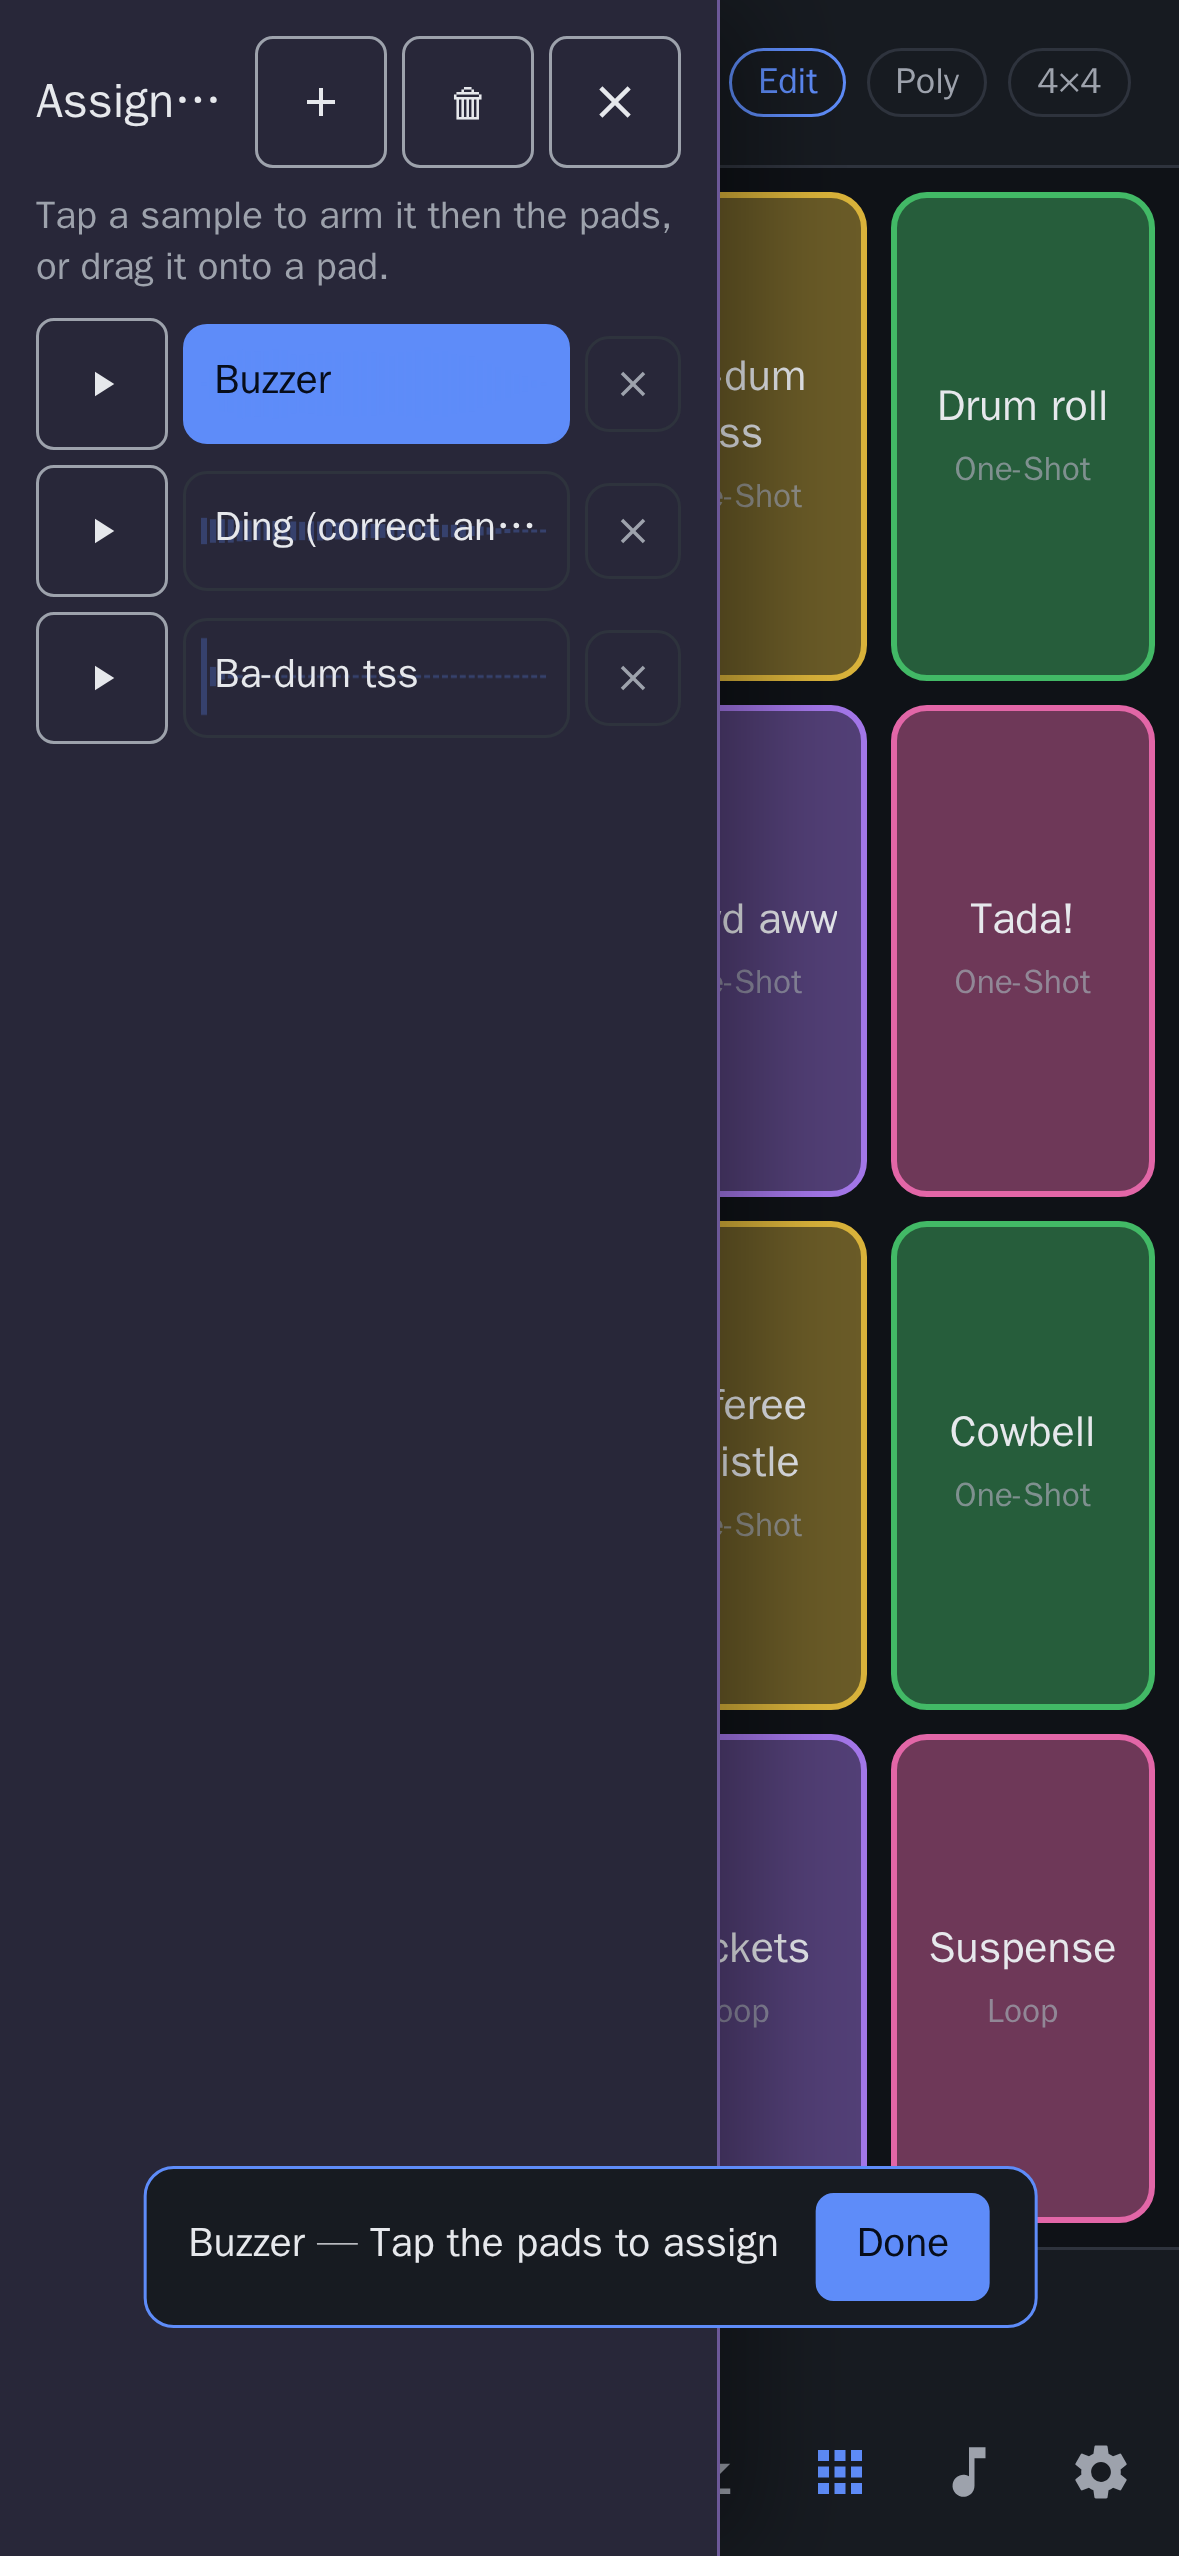
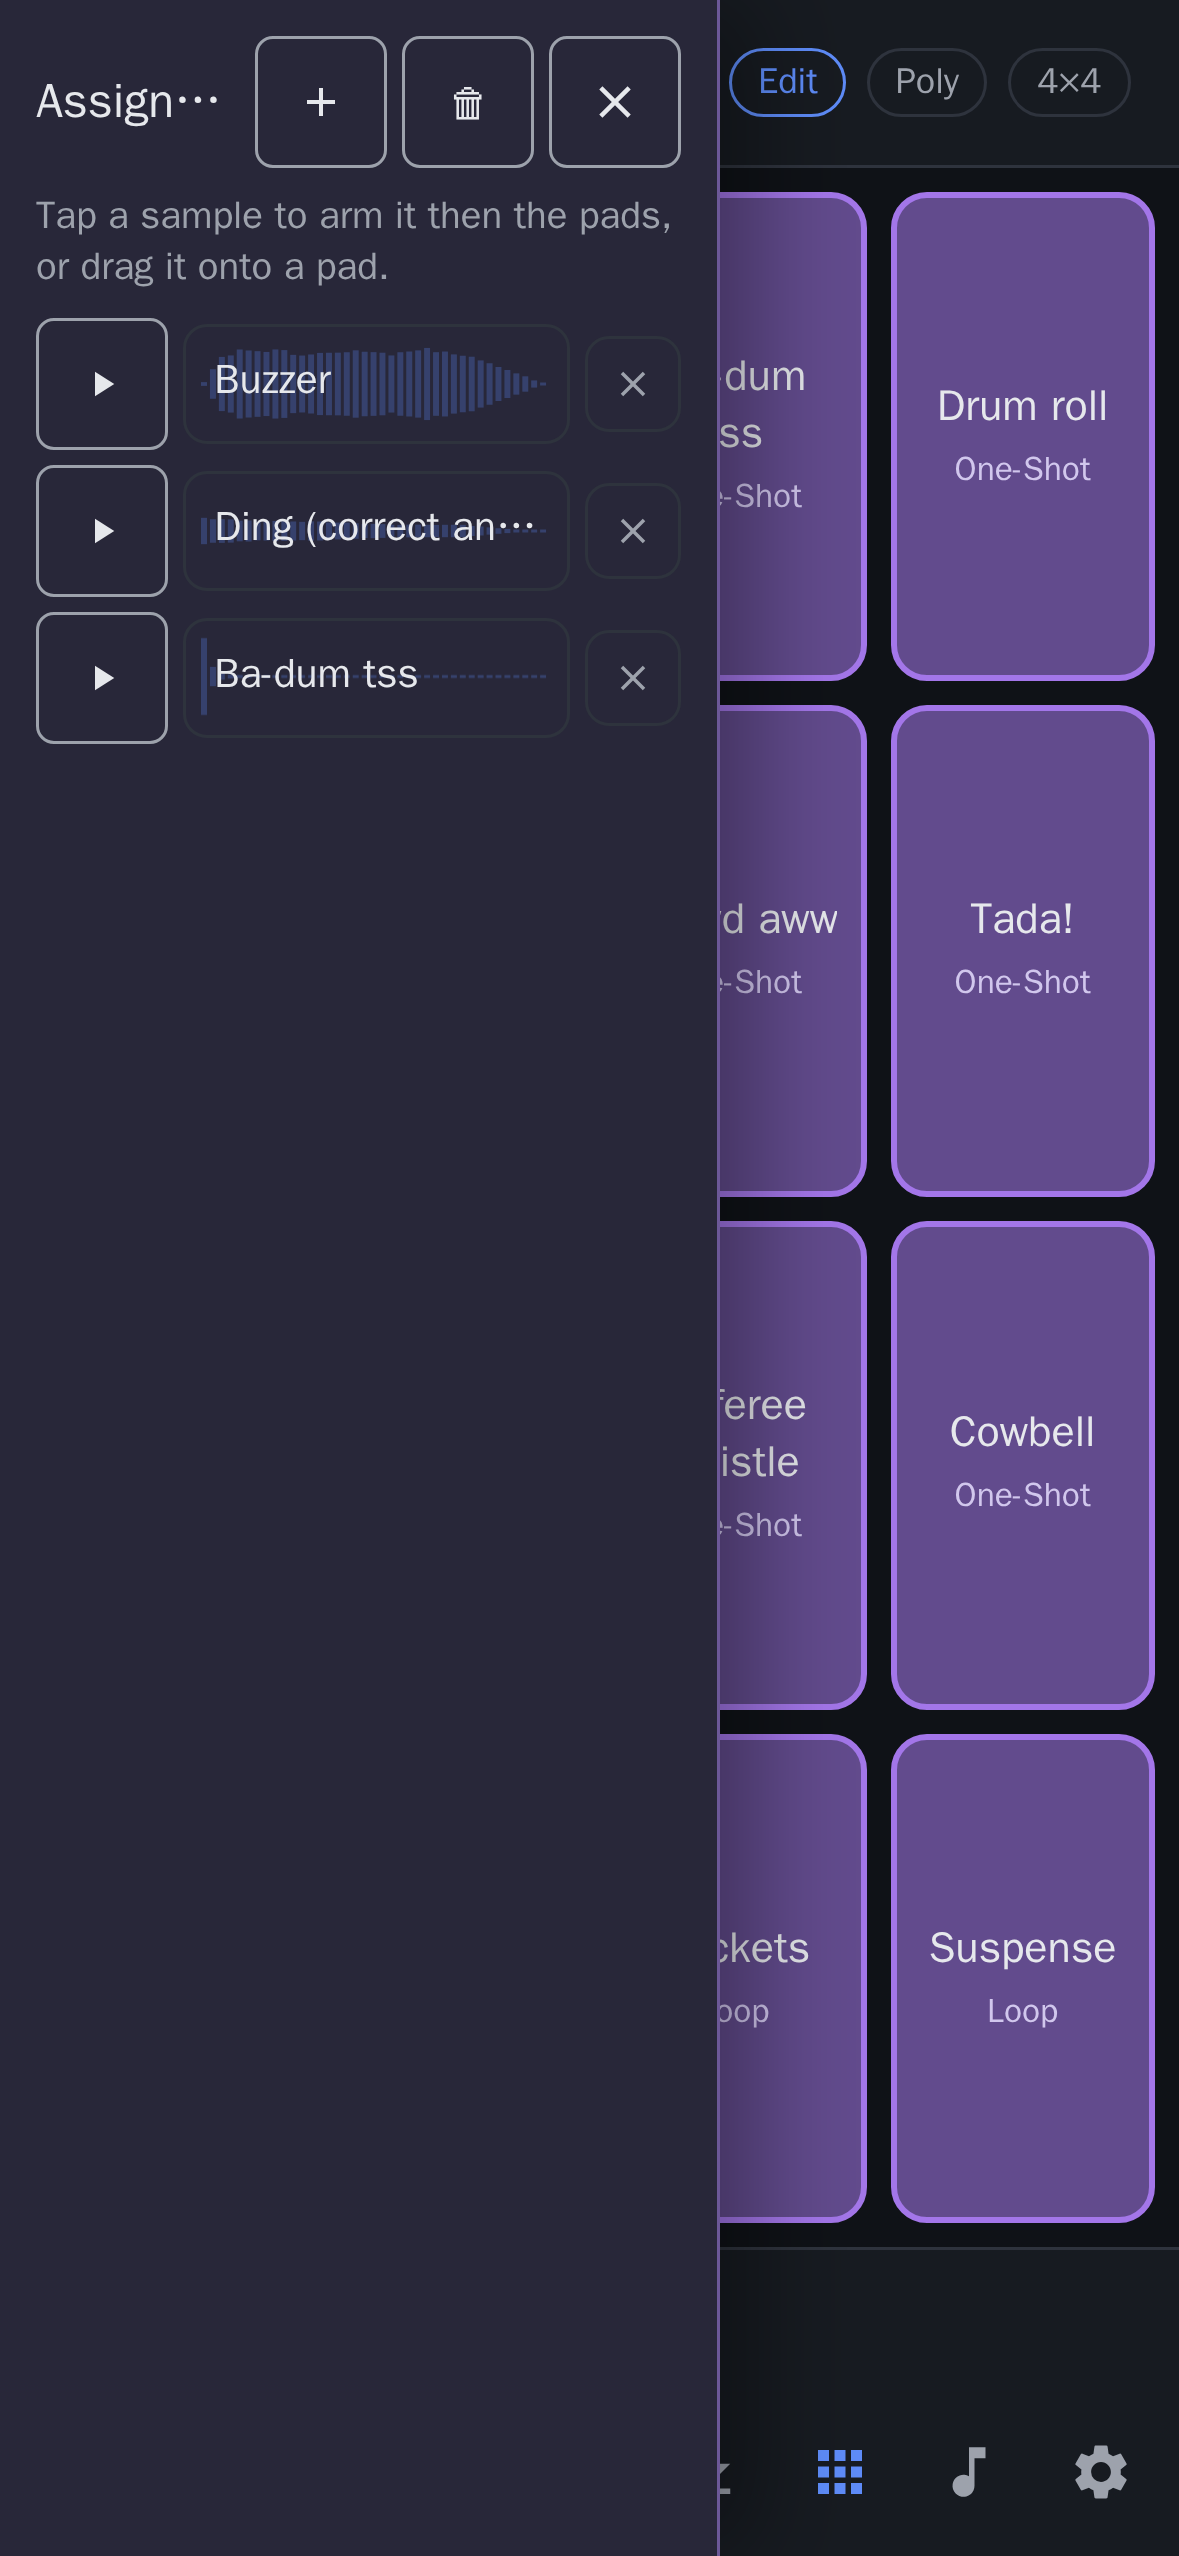
docs(readme): show the board in Edit mode on the pool screenshot
The assignment-pool capture armed a sample, which put the board into the
assignment-target highlight (bright pads) instead of the Edit-mode look —
inconsistent with the UX (the pool is an Edit-only tool). Drop the arming
so the board shows its Edit styling next to the open pool.

diff --git a/e2e/screenshots.fastlane.spec.ts b/e2e/screenshots.fastlane.spec.ts
@@ -81,17 +81,17 @@ test('captures fastlane : board, lecture, pool, pad, page, bibliothèque, édite
     await page.locator('.drawer > header .close').click();
   }
 
-  // 3 — pool d'assignation (Édition) : liste de travail, un son ARMÉ se pose ensuite sur les pads.
+  // 3 — pool d'assignation (Édition) : liste de travail, à côté du board EN ÉDITION.
+  // On N'ARME PAS de son : l'armement bascule le board en surbrillance « cibles
+  // d'assignation » (pads brillants) et masque le rendu Édition — incohérent avec l'UX
+  // (le pool est un outil d'Édition, le board doit rester visiblement en Édition).
   await page.locator('.bottombar .open-pool').click();
   const pool = page.locator('.pool.overlay');
   await expect(pool.locator('ul li').first()).toBeVisible();
   await settle(pool);
-  // Armer le premier son du pool pour montrer l'état d'assignation actif.
-  await pool.locator('ul li .item').first().click();
   await page.screenshot({ path: shot(3) });
-  // Désarmer puis refermer via le bouton du tiroir pool : en overlay (étroit), le pool
-  // RECOUVRE la bottombar/topbar à gauche — son propre « close » est le seul point sûr.
-  await pool.locator('ul li .item').first().click(); // re-tap = désarme
+  // Refermer via le bouton du tiroir pool : en overlay (étroit), le pool RECOUVRE la
+  // bottombar/topbar à gauche — son propre « close » est le seul point sûr.
   await pool.locator('.close').click(); // referme le pool
 
   // 5 — réglages de PAGE (depuis la topbar) : renommer, Polyphonie Mono/Poly, grille rows×cols.